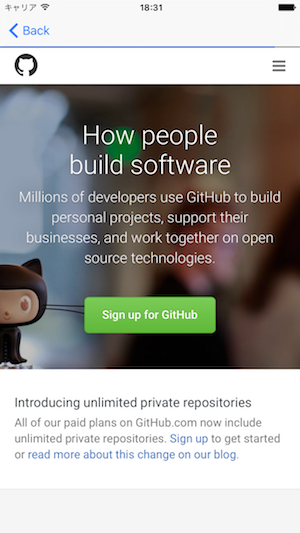
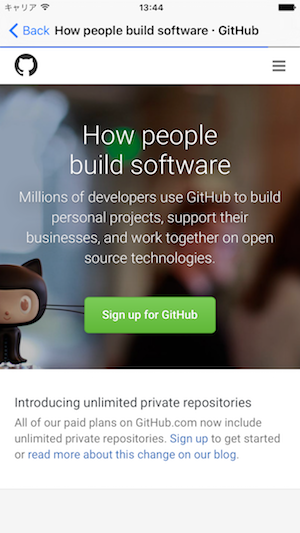
display title

Changed region(s): [[0.18, 0.0, 0.69, 0.0901], [0.72, 0.03, 0.87, 0.0901]]

diff --git a/KAWebBrowser/Classes/KAWebBrowser.swift b/KAWebBrowser/Classes/KAWebBrowser.swift
@@ -9,6 +9,9 @@
 import UIKit
 import WebKit
 
+private let KVOEstimatedProgress = "estimatedProgress"
+private let KVOTitle = "title"
+
 public class KAWebBrowser: UIViewController {
 
     private lazy var webView: WKWebView = {
@@ -57,13 +60,15 @@ public class KAWebBrowser: UIViewController {
         view.addConstraints(NSLayoutConstraint.constraintsWithVisualFormat("V:|[webView]|", options: .AlignAllLeft, metrics: nil, views: ["webView": webView]))
         view.addConstraints(NSLayoutConstraint.constraintsWithVisualFormat("H:|[webView]|", options: .AlignAllTop, metrics: nil, views: ["webView": webView]))
         
+        webView.addObserver(self, forKeyPath: KVOTitle, options: .New, context: nil)
+        
         guard let _ = navigationController else {
             print("need UINavigationController to show progressbar")
             return
         }
         
         webView.addObserver(self, forKeyPath: "estimatedProgress", options: .New, context: nil)
-
+        
         view.addSubview(progressBar)
         progressBar.translatesAutoresizingMaskIntoConstraints = false
         view.addConstraint(NSLayoutConstraint(item: progressBar, attribute: .Top, relatedBy: .Equal, toItem: topLayoutGuide, attribute: .Bottom, multiplier: 1, constant: 0))
@@ -93,14 +98,19 @@ public class KAWebBrowser: UIViewController {
     }
     
     deinit{
-        webView.removeObserver(self, forKeyPath: "estimatedProgress")
+        webView.removeObserver(self, forKeyPath: KVOEstimatedProgress)
+        webView.removeObserver(self, forKeyPath: KVOTitle)
     }
 
     // MARK: - KVO
     
     override public func observeValueForKeyPath(keyPath: String?, ofObject object: AnyObject?, change: [String : AnyObject]?, context: UnsafeMutablePointer<Void>) {
-        if keyPath == "estimatedProgress" {
+        if keyPath == KVOEstimatedProgress {
             updateProgressBar(Float(webView.estimatedProgress))
+        }
+        
+        if keyPath == KVOTitle {
+            title = self.webView.title
         }
     }
 

diff --git a/README.md b/README.md
@@ -14,7 +14,6 @@ Support showing page's loading status with an animated progressBar.
 - [x] Portrait and landscape orientation support
 - [x] Work with existing UINavigationController or present modally
 - [x] Installation with [CocoaPods](http://cocoapods.org/)
-- [ ] Display title
 - [ ] Customizable UI
 - [ ] Customizable Toolbar & action buttons
 
@@ -42,8 +41,6 @@ showViewController(navigationController, sender: nil)
 
 navigationController.webBrowser()?.loadURLString("https://github.com")
 ```
-
----
 
 ## Installation
 
